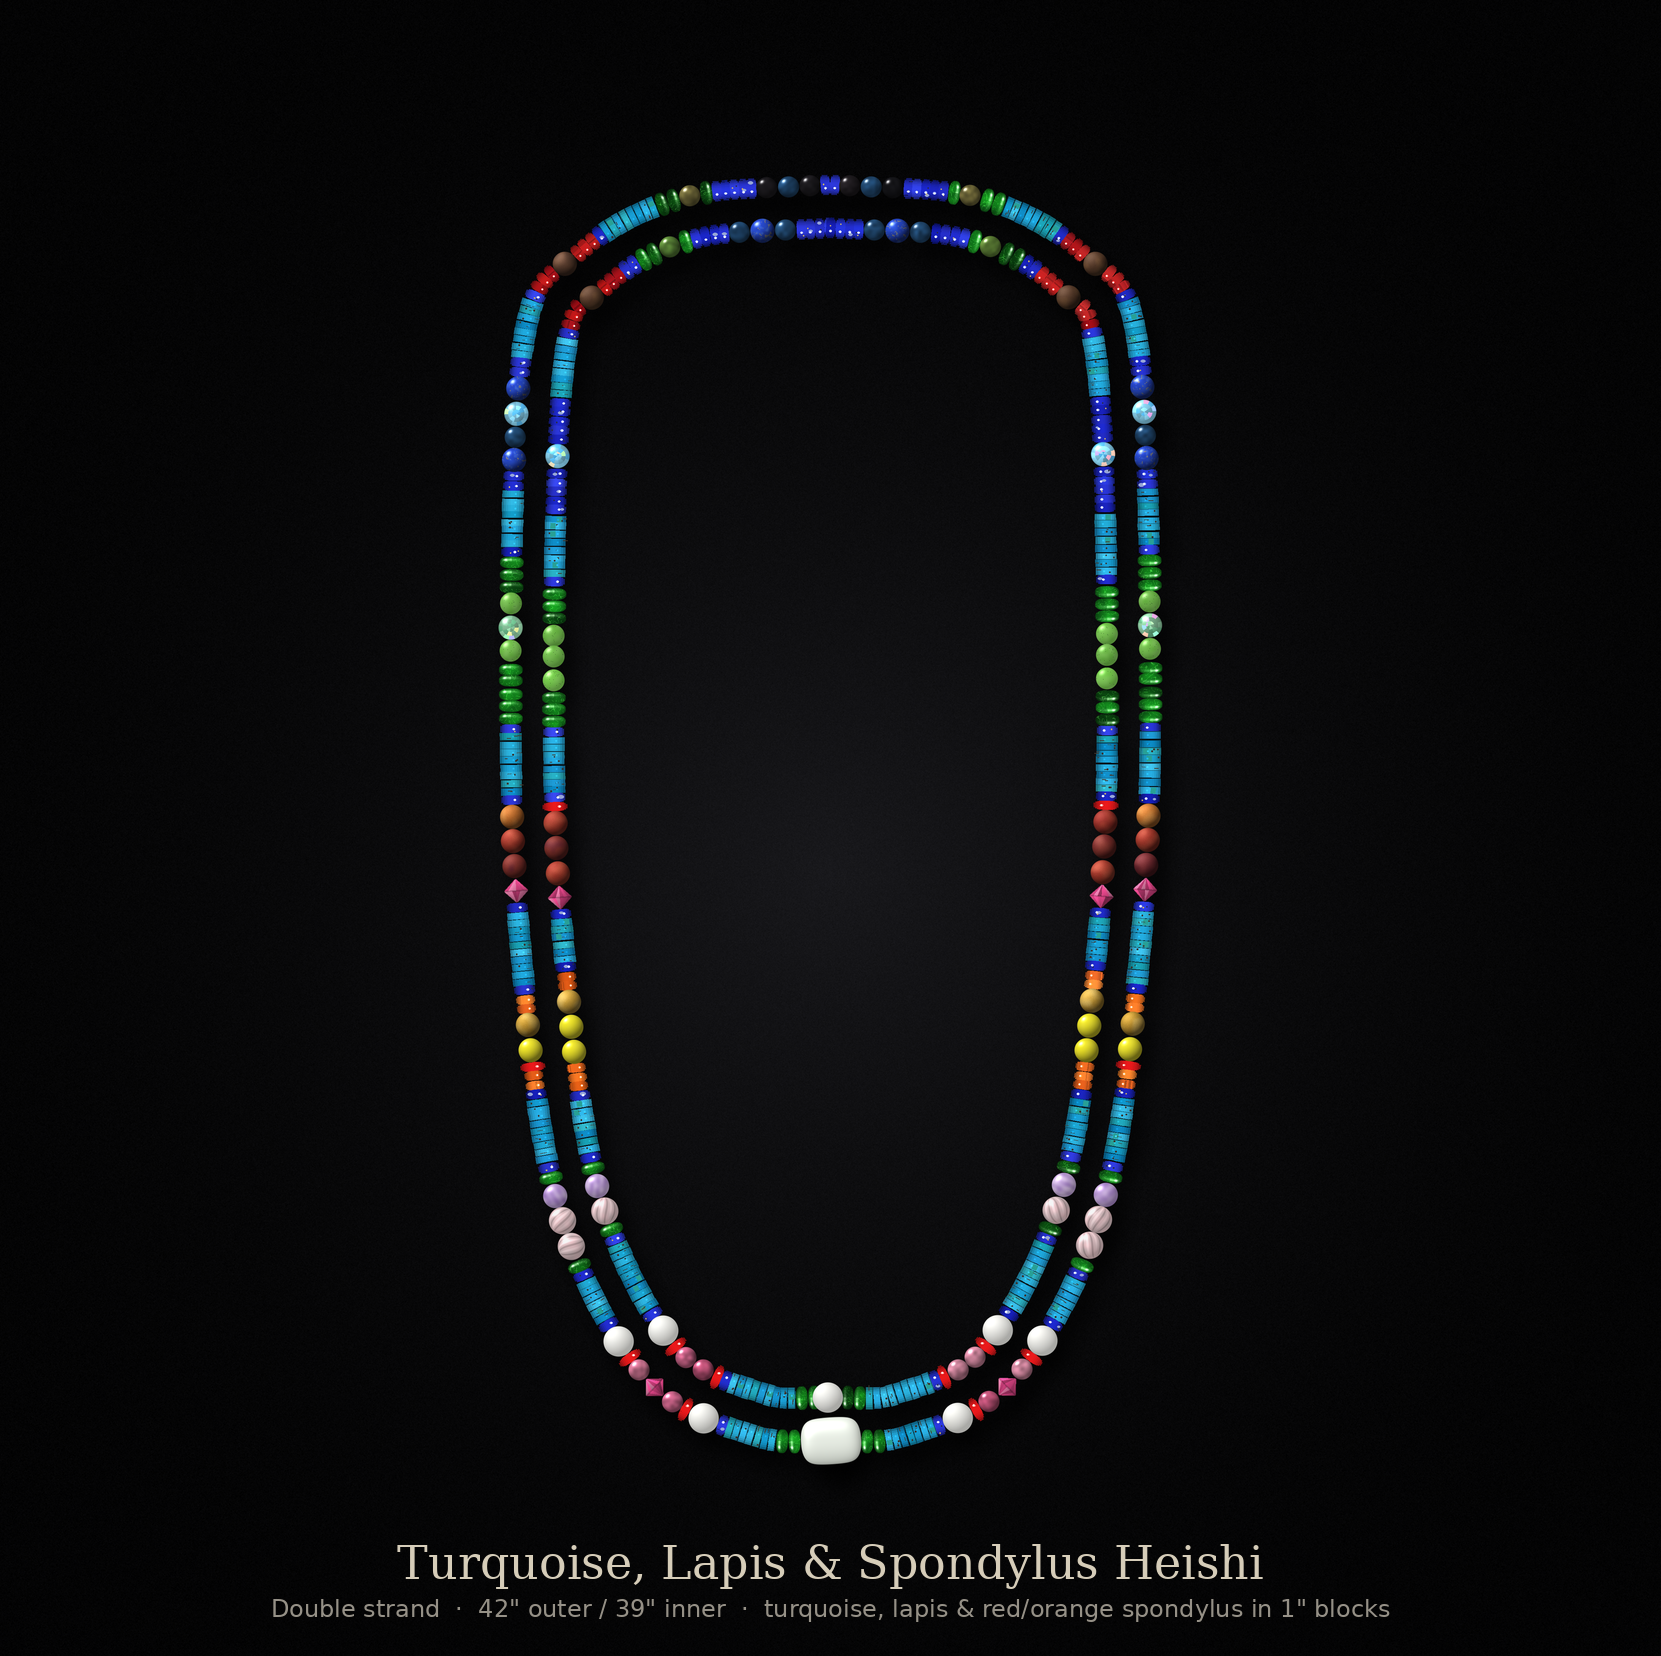
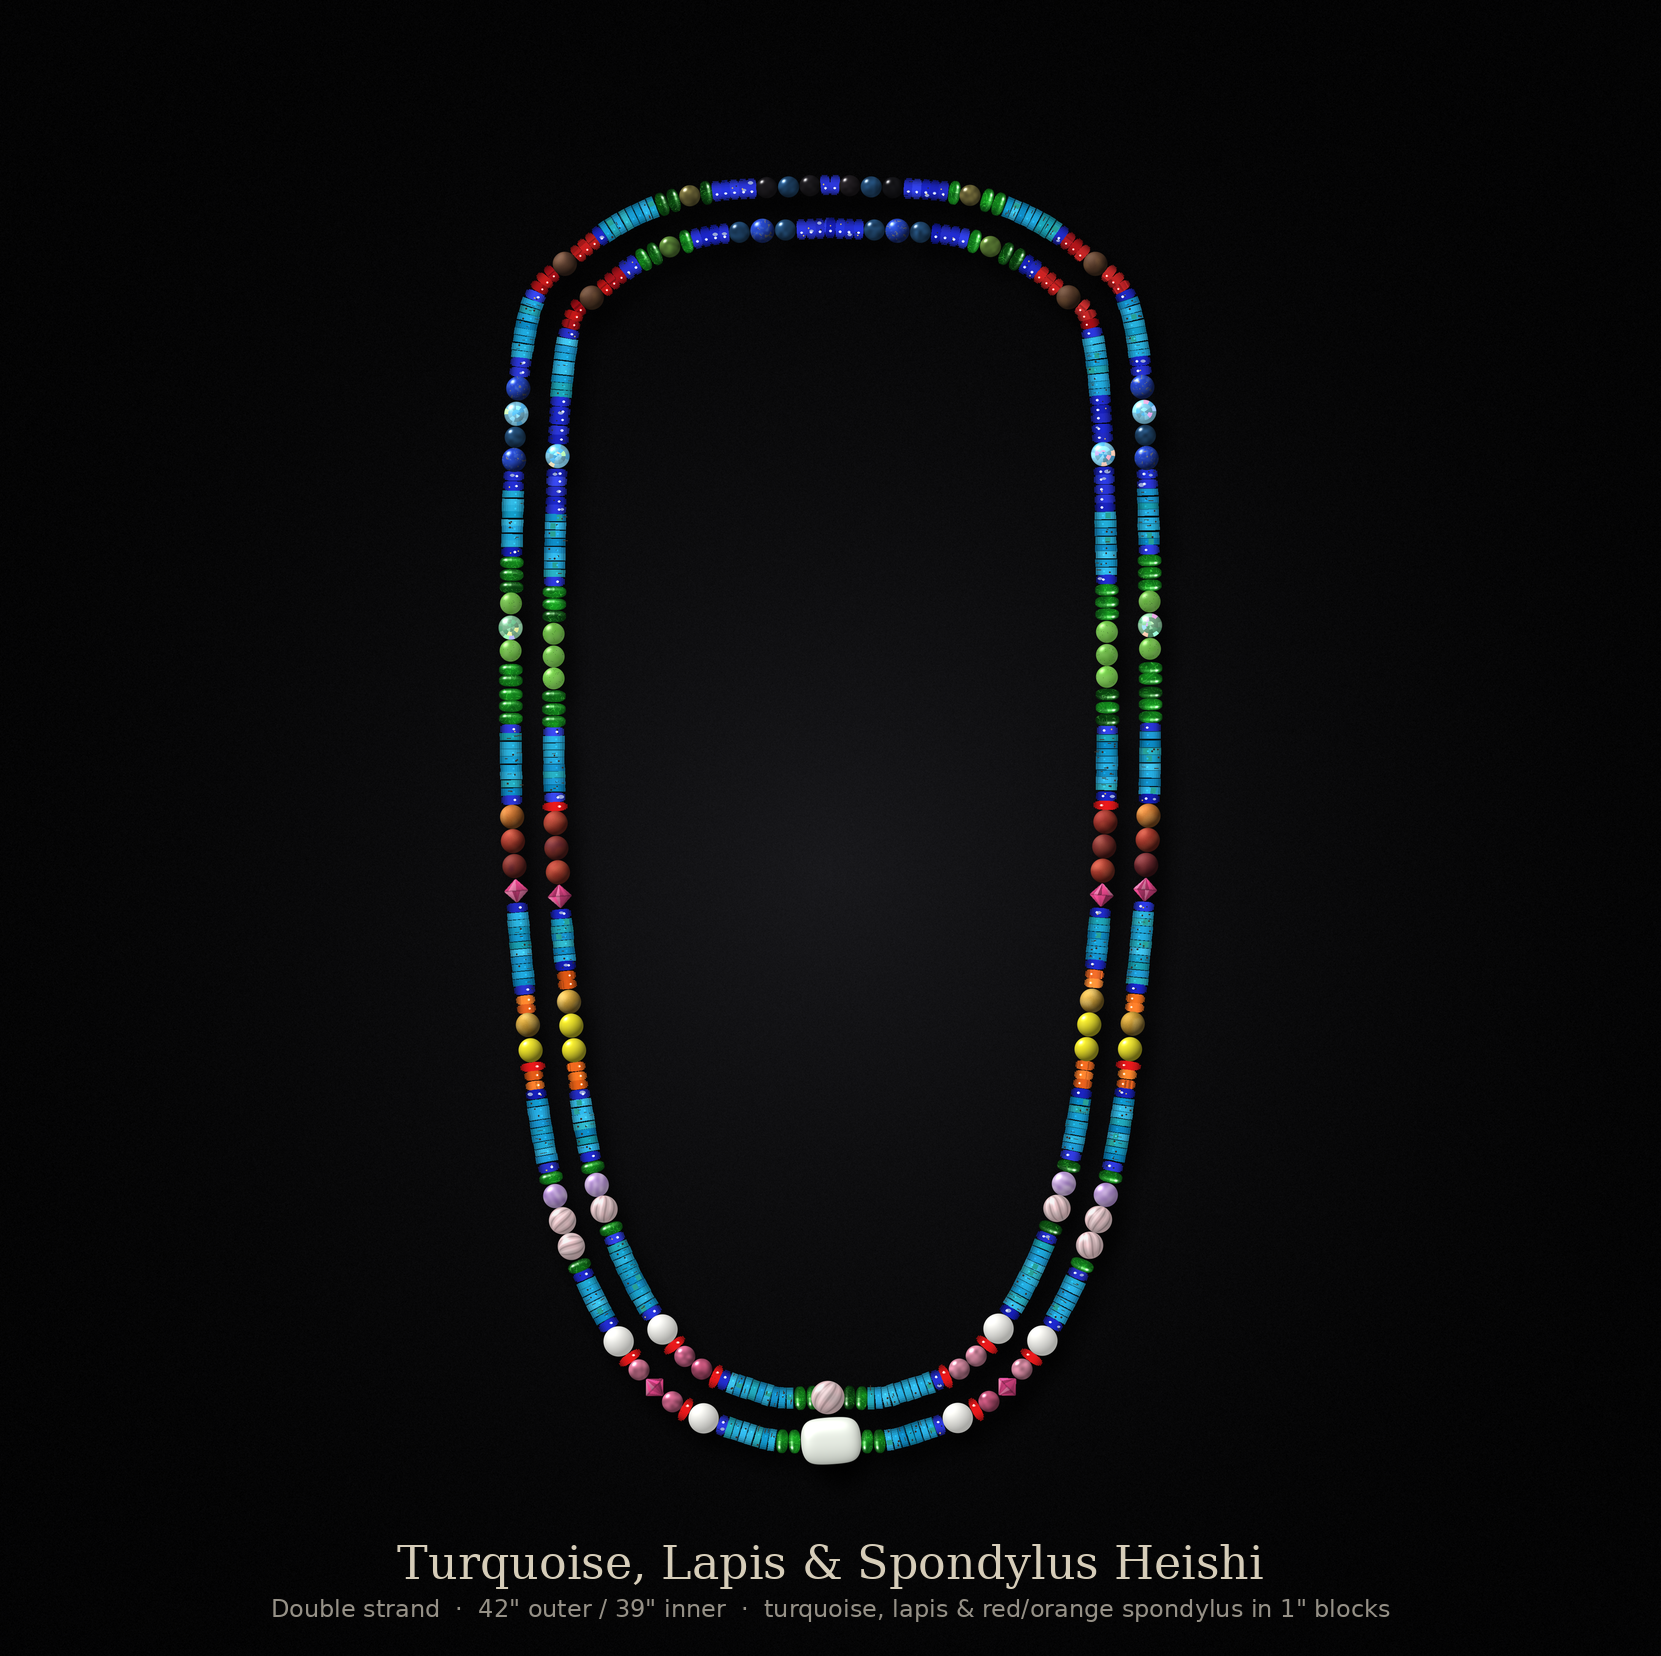
Version 5: 11mm swirled rose quartz at inner strand centre
Claude-Session: https://claude.ai/code/session_014be1vF4Rdf8sv9Si75Gudv

diff --git a/necklace/render_necklace.py b/necklace/render_necklace.py
@@ -1045,7 +1045,7 @@ if V4:
         F(["jade", "jade"], "diop", 3),                            # G (light)
         F(["pink", "ajas", "pink"], "orange", 5),                  # R (light), then rose quartz at the centre
     ]
-    CENTRE = {0: "focal", 1: ("opal10" if V5 else "rq9")}   # v5: white opal at the inner strand's centre
+    CENTRE = {0: "focal", 1: ("rq11" if V5 else "rq9")}     # v5: 11 mm swirled rose quartz at the inner strand centre
     LAP_BUDGET = {0: 15, 1: 15}                # lapis heishi used as dark filler, from the top down (per side)
     KIND_T = {"diop": "peridot", "jade": "gjade7t", "gglass": "v4_gglass", "gtourm": "tour_green", "olive": "v4_olive",
               "tan": "tour_yellow", "pink": "tour_pink", "black": "tour_black", "yellow": "bicone_lime",
